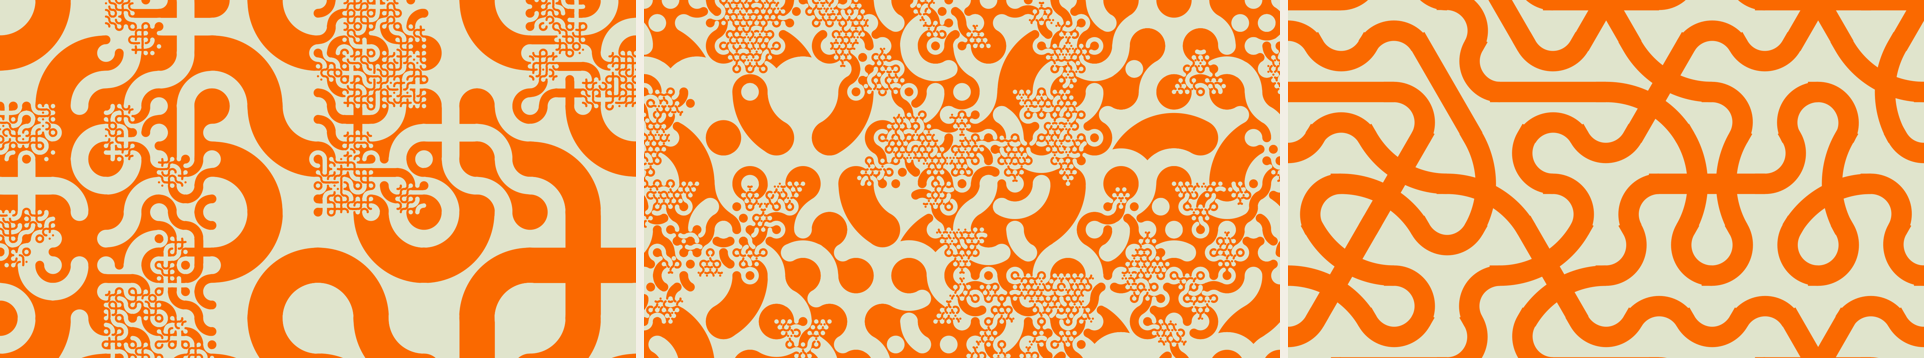
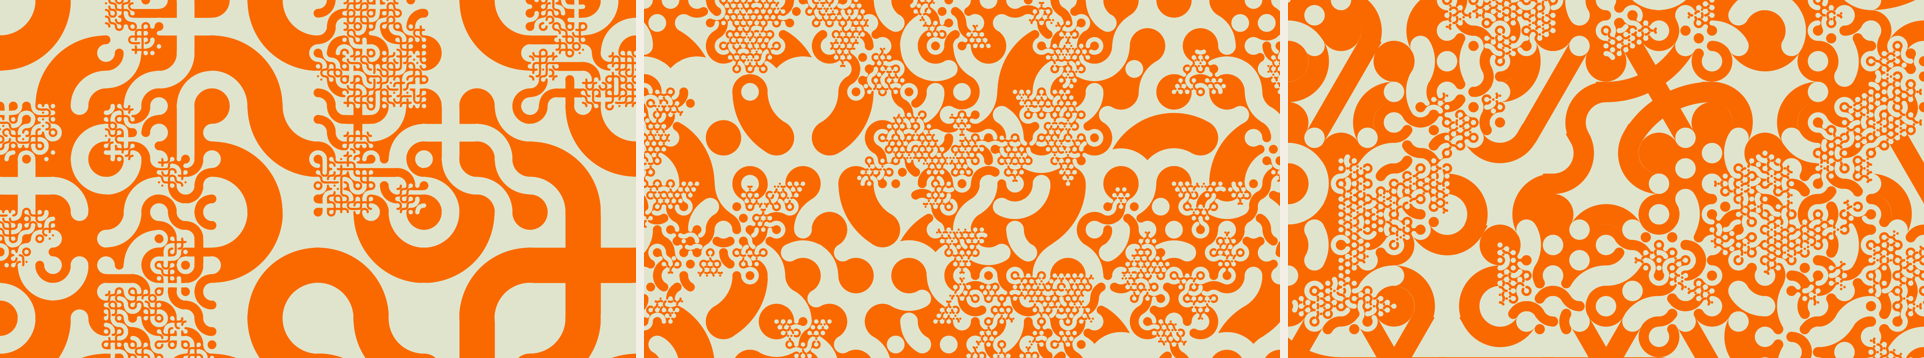
Add gradient colour schemes, hexagon multi-scale, and rendering fixes
Colour:
- New schemes: gradient (per-tile), gradient-bg (smooth canvas gradient +
  solid ribbons), gradient-smooth (continuous gradient-filled ribbons via a
  Java2D LinearGradientPaint); cycle with C / scheme button.
- Palette rotation (R key + control-window button).

Shapes:
- Hexagon mode is now multi-scale: a hexagon subdivides into 6 equilateral
  triangles that recurse via the triangle rep-tile rule.

Rendering fixes:
- Fix chunky hexagons after switching shapes: wings left ellipseMode(RADIUS),
  which arc() honours, doubling later arcs; wing discs now drawn in CENTER mode.
- Hexagon band joins use ROUND caps to overlap neighbours without the
  projecting cap's notch where a neighbour curves.
- gradient-smooth arcs sampled adaptively (~3px/segment) so large hexagon
  arcs are smooth, not faceted.

Docs (README, CLAUDE) and preview updated.

Changed region(s): [[0.6549, 0.0, 1.0, 1.0]]

diff --git a/CLAUDE.md b/CLAUDE.md
@@ -132,11 +132,14 @@ recursion; that breaks the layering. These constants (`s/3`, `s/6`) mirror
 Steele's `lineWidth` and `lineWidth/2`.
 
 The same invariant generalizes to n-gons (band width = `side/3`; arc radius from
-the edge-line intersection). **Hexagons are single-scale and skip wings**
-(`if (winged && n != 6)` in `drawPolyTile`): with uniform tile size the classic
-arc-at-midpoint connection suffices and the nubs only add noise, so the hexagon
-alphabet uses fully-connected tiles instead. Wings still matter for square and
-triangle, which mix scales.
+the edge-line intersection). A **whole hexagon tile skips wings**
+(`if (winged && n != 6)` in `drawPolyTile`) and uses fully-connected tiles +
+`ROUND` caps — the classic arc-at-midpoint connection, since at that level the
+tiles are uniform. (`ROUND`, not `PROJECT`: the round cap overlaps neighbours to
+hide the AA seam without the straight cap's notch where a neighbour curves.) Hexagons get multi-scale by **subdividing into 6 equilateral
+triangles** (a hexagon is not a rep-tile; see `children()`), and those triangles
+*do* use wings as usual. So hexagon mode mixes whole-hexagon tiles (coarse) with
+winged triangle detail (finer).
 
 **Gotcha — `arc()` honours `ellipseMode`.** The tile arcs call
 `arc(cx, cy, 2*r, 2*r, ...)` assuming the default `CENTER` mode (args = width/
@@ -161,8 +164,9 @@ Four `.pde` tabs (Processing merges them into one PApplet):
   support landed. A `Tile` is `(cx, cy, R, rot, n, depth)`. `shapeMode`
   (0/1/2 → square/triangle/hexagon, keys 4/3/6) drives `buildRoots()`
   (`squareRoots`/`triangleRoots`/`hexagonRoots`) and `children()` (square
-  quadtree; triangle rep-tile = 3 corner + 1 flipped medial; hexagon never
-  subdivides — `canSubdivide` returns false for n=6). `drawPolyTile()` draws one
+  quadtree; triangle rep-tile = 3 corner + 1 flipped medial; hexagon = 6
+  equilateral triangles fanning from the centre, which then recurse as n==3 —
+  `canSubdivide` is just `depth < maxDepth`). `drawPolyTile()` draws one
   tile: a connection between edges `i,j` is a straight band if opposite
   (`min(|i−j|, n−|i−j|) == n/2`), else an arc whose centre is `lineIntersect()`
   of the two edge lines (radius = midpoint→centre). Band width `side/3`. Random
@@ -171,18 +175,25 @@ Four `.pde` tabs (Processing merges them into one PApplet):
   polygon** as a safety net (`pushPolyClip`/`popPolyClip`, which reach the JAVA2D
   `Graphics2D` since Processing's `clip()` is rectangle-only); wings draw after
   the clip is released so they still spill. Hexagons skip the clip and use
-  `PROJECT` stroke caps so bands overlap across shared edges (closing the AA seam
+  `ROUND` stroke caps so bands overlap across shared edges (closing the AA seam
   that wings hide on the other shapes).
 - **`Palettes.pde`** — `PaletteManager`/`Palette`; colour source. `colorScheme`
-  (`schemeName`) selects duotone (palette lightest/darkest, inverted per level),
-  multi (`ribbonColor()`: light ground, one palette colour per level), or gradient
-  (`setupGradient`/`gradientColor`: one random solid colour as ground, bands
-  sample a random-direction gradient of the other colours). `tileFg`/`tileBg`
-  take the `Tile` (gradient needs position). Keys `p`/`P` palettes, `R` rotate
-  palette colour order (`Palette.rotate`), `C` scheme. There is no
-  `cDark`/`cLight`. Gradient picks via `random()`, so `draw()` re-seeds
-  (`randomSeed(seedVal)`) after `setupGradient()` to keep the tile layout
-  identical across schemes for a given seed.
+  (`schemeName`) selects one of four: duotone (lightest/darkest, inverted per
+  level), multi (`ribbonColor()`: light ground, one palette colour per level),
+  gradient (`gradientColor`: one random solid ground colour, bands sample a
+  random-direction gradient of the other colours, one flat colour per tile),
+  gradient-bg (a *smooth* full-canvas gradient, solid ribbons; `drawPolyTile`
+  skips the bg polygon when `colorScheme==3` so the gradient shows through), or
+  gradient-smooth (solid ground, ribbons painted with the smooth gradient
+  continuously). The gradient family shares `setupGradient()`, which also builds
+  a Java2D `LinearGradientPaint` (`gradPaint`) matching `gradientColor`'s
+  projection; schemes 3 and 4 use it via `g2` (`drawGradientBackground` fills the
+  canvas; `gradientStroke()`/`drawConnG2`/`fillDiscG2` stroke the bands and wing
+  discs). `tileFg`/`tileBg` take the `Tile` (gradient needs position). Keys
+  `p`/`P` palettes, `R` rotate palette colour order (`Palette.rotate`), `C`
+  scheme. There is no `cDark`/`cLight`. The gradient schemes pick via `random()`,
+  so `draw()` re-seeds (`randomSeed(seedVal)`) after `setupGradient()` to keep the
+  tile layout identical across schemes.
 - **`ControlWindow.pde`** — a second PApplet (own window, launched in `setup()`
   via `runSketch`) with immediate-mode sliders/buttons writing straight to the
   main sketch's globals (`parent.*`) and calling `parent.redraw()`. If you add a
@@ -190,9 +201,9 @@ Four `.pde` tabs (Processing merges them into one PApplet):
 
 Per-shape alphabets: `TILE_CONNS`/`TILE_W` (square, in the main tab), `TRI_CONNS`
 (triangle: blank + single arc — one port per edge allows at most one arc),
-`HEX_CONNS` (hexagon: fully-connected matchings only, since single-scale —
-including distance-2 "sweeping" arcs, which polygon clipping keeps in bounds).
-`connsFor(n)`/`weightsFor(n)` pick the right one.
+`HEX_CONNS` (whole-hexagon tiles: fully-connected matchings only — including
+distance-2 "sweeping" arcs; a subdivided hexagon becomes triangles and uses
+`TRI_CONNS`). `connsFor(n)`/`weightsFor(n)` pick the right one.
 
 ## Two-window architecture (control panel)
 

diff --git a/README.md b/README.md
@@ -22,7 +22,7 @@ sliders and buttons for every parameter below.
 - **4** / **3** / **6** — square / triangle / hexagon tiling
 - **p** / **P** — next / previous palette
 - **R** — rotate the current palette's colour order
-- **C** — cycle colour scheme (duotone → multi → gradient)
+- **C** — cycle colour scheme (duotone → multi → gradient → gradient-bg → gradient-smooth)
 - **S** — save the current frame as `truchet-####.png`
 
 ## How it works
@@ -93,15 +93,20 @@ implements three tilings (keys **4 / 3 / 6**), all through one renderer:
 |-------|---|--------------|-------------|
 | **Square** | 4 | yes | quadtree — 4 half-size squares |
 | **Triangle** | 3 | yes | rep-tile — 3 corner triangles + 1 flipped centre (the medial triangle) |
-| **Hexagon** | 6 | **no** | regular hexagons are not rep-tiles, so single-scale only |
+| **Hexagon** | 6 | yes | not a rep-tile, so it splits into 6 equilateral triangles (fanning from the centre) that then recurse |
 
 The square and triangle are genuine rep-tiles, so Carlson's recursive
 subdivision and the winged cross-scale connection both apply. A regular hexagon
-cannot be cut into smaller regular hexagons, so the hexagon mode is a single
-uniform scale; it uses **fully-connected tiles** (every edge paired) and **no
-wings** — the classic "arc crosses each edge at its midpoint" connection is
-enough when all tiles are the same size. Each shape has its own alphabet
-(`TILE_CONNS`, `TRI_CONNS`, `HEX_CONNS`) and is placed with a random rotation.
+*cannot* be cut into smaller regular hexagons, so a whole (un-subdivided) hexagon
+is a single tile drawn with **fully-connected tiles** (every edge paired) and
+**no wings** — the classic "arc crosses each edge at its midpoint" connection.
+When a hexagon subdivides it becomes **6 equilateral triangles** (each = centre +
+two adjacent vertices; the hexagon's side equals its circumradius, so they're
+equilateral), and those recurse with the triangle rep-tile rule. So hexagon mode
+mixes whole-hexagon tiles at the coarse scale with triangular detail where they
+split — a shared hexagon edge is one triangle edge, so the grid still meets. Each
+shape has its own alphabet (`TILE_CONNS`, `TRI_CONNS`, `HEX_CONNS`) and is placed
+with a random rotation; `subdivideProb` controls how often hexagons triangulate.
 
 ### Edges between neighbours
 
@@ -111,11 +116,13 @@ rectangle, so the renderer reaches the default JAVA2D backend's `Graphics2D` and
 sets the tile polygon as the clip region (`pushPolyClip` / `popPolyClip` in
 `Shapes.pde`); wings are drawn *after* the clip is released so they still spill.
 
-Hexagons instead **skip the clip and use `PROJECT` stroke caps**, so each band
+Hexagons instead **skip the clip and use `ROUND` stroke caps**, so each band
 extends half its width past the edge and overlaps its neighbour's band. That
 closes the thin anti-aliasing seam that would otherwise show where two bands
 merely abut (square/triangle hide that seam under their wings; hexagons have
-none). The hexagon alphabet includes **distance-2 "sweeping" arcs** — the large
+none). A round cap is used rather than a square/projecting one so the overlap
+stays smooth where a neighbour curves — a projecting cap leaves a small notch
+there. The hexagon alphabet includes **distance-2 "sweeping" arcs** — the large
 curves spanning a tile; those stay within the hexagon by construction.
 
 ## Colour
@@ -131,8 +138,20 @@ Two `colorScheme`s:
   scale level (darkest first, so the coarsest tiles get the boldest ribbon).
 - **gradient** (`2`): one palette colour, chosen at random, is the solid ground;
   the other colours form a gradient (in a random direction) that the bands sample
-  by position. The random pairing is fixed per seed — press **SPACE** for a new
-  one, or **R** to rotate the palette and re-pair the same structure.
+  by position — one colour per tile (so it steps slightly tile to tile).
+- **gradient-bg** (`3`): the flip, with *smooth* interpolation — a continuously
+  interpolated gradient of the other colours fills the whole canvas, and the one
+  random colour is the solid ribbons. The tiles skip their background fill so the
+  gradient shows through the negative space.
+- **gradient-smooth** (`4`): like `gradient` (solid ground, the others as the
+  ribbon colour) but the ribbons are painted with the gradient *continuously* —
+  a true gradient-filled stroke (Java2D `LinearGradientPaint`) so the colour
+  flows smoothly along the bands instead of stepping one flat colour per tile.
+
+For all three gradient schemes the random pairing is fixed per seed — press
+**SPACE** for a new one, or **R** to rotate the palette and re-pair the same
+structure. (`gradient` keeps the faceted, one-colour-per-tile look;
+`gradient-smooth` is the continuous version of it.)
 
 Cycle palettes with **p**/**P**, rotate the current palette's colour order with
 **R**, and cycle schemes with **C** at runtime. Palette rotation is most visible
@@ -149,7 +168,7 @@ All parameters live at the top of `Multiscale_Truchet.pde`:
 | `maxDepth` | how many times a cell may subdivide |
 | `subdivideProb` | how often cells split (higher = busier, finer detail) |
 | `shapeMode` | `0` square / `1` triangle / `2` hexagon (see Shapes) |
-| `colorScheme` | `0` duotone / `1` multi / `2` gradient (see Colour) |
+| `colorScheme` | `0` duotone / `1` multi / `2` gradient / `3` gradient-bg / `4` gradient-smooth (see Colour) |
 | `winged` | draw Carlson wings (structural connection discs) |
 | `invertPerLevel` | flip colours each scale level (duotone) |
 | `TILE_CONNS` / `TRI_CONNS` / `HEX_CONNS` | per-shape tile alphabets (in `Shapes.pde`) |